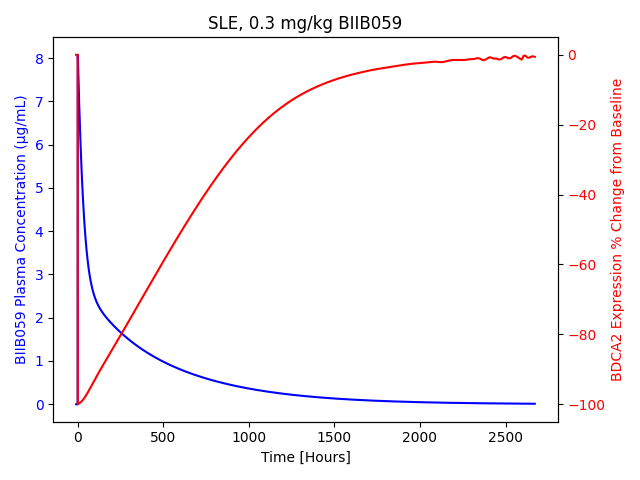
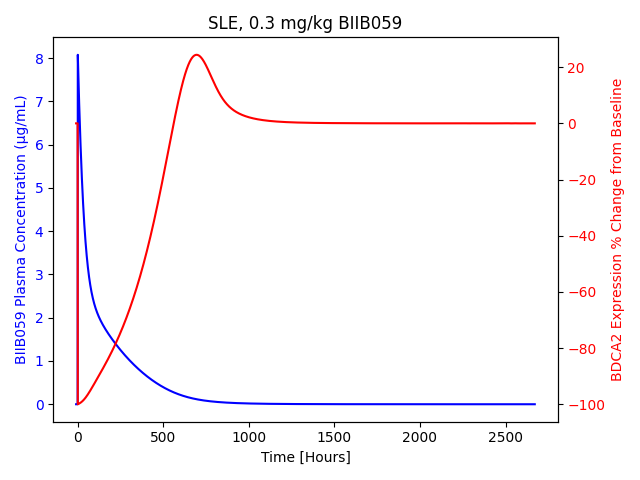
SLE modell som inte oscillerar!

diff --git a/Scripts/plot_SLE_PK_simulation.py b/Scripts/plot_SLE_PK_simulation.py
@@ -21,7 +21,7 @@ class NumpyArrayEncoder(JSONEncoder):
         return JSONEncoder.default(self, obj)
 
 # Open the mPBPK_model.txt file and read its contents
-with open("../Models/mPBPK_model.txt", "r") as f:
+with open("../Models/mPBPK_SLE_model.txt", "r") as f:
     lines = f.readlines()
 
 # Open the data file and read its contents
@@ -58,11 +58,11 @@ def plot_sim_with_PK_data(params, sims, PK_data, color='b', save_dir='../Results
 ## Setup of the model
 
 # Install the model
-sund.install_model('../Models/mPBPK_model.txt')
+sund.install_model('../Models/mPBPK_SLE_model.txt')
 print(sund.installed_models())
 
 # Load the model object
-first_model = sund.load_model("mPBPK_model")
+first_model = sund.load_model("mPBPK_SLE_model")
 
 # Creating activities for the different doses
 bodyweight = 70 # Bodyweight for subject in kg
@@ -100,7 +100,8 @@ first_model_sims = {
 
 time_vectors = {exp: np.arange(-10, PK_data[exp]["time"][-1] + 0.01, 1) for exp in PK_data}
 
-params_M1 = [0.679, 0.01, 2600, 1810, 6300, 4370, 2600, 10.29, 29.58, 80.96, 0.769, 0.95, 0.605, 0.2, 12.7, 1.39, 0.421, 1.31e-4, 1.04e-7, 8, 8, 0.525]
+params_M1 = [0.679, 0.01, 2600, 1810, 6300, 4370, 2600, 10.29, 29.58, 80.96, 0.769, 0.95, 0.605, 
+0.2, 10.43, 20.9, 0.281, 1.31e-4, 8, 0.525, 0.07]
 
 
 plot_sim_with_PK_data(params_M1, first_model_sims, PK_data)

diff --git a/Scripts/plot_SLE_PD_simulation.py b/Scripts/plot_SLE_PD_simulation.py
@@ -21,7 +21,7 @@ class NumpyArrayEncoder(JSONEncoder):
         return JSONEncoder.default(self, obj)
 
 # Open the mPBPK_model.txt file and read its contents
-with open("../Models/mPBPK_model.txt", "r") as f:
+with open("../Models/mPBPK_SLE_model.txt", "r") as f:
     lines = f.readlines()
 
 # Open the data file and read its contents
@@ -58,11 +58,11 @@ def plot_sim_with_PD_data(params, sims, PD_data, color='b', save_dir='../Results
 ## Setup of the model
 
 # Install the model
-sund.install_model('../Models/mPBPK_model.txt')
+sund.install_model('../Models/mPBPK_SLE_model.txt')
 print(sund.installed_models())
 
 # Load the model object
-first_model = sund.load_model("mPBPK_model")
+first_model = sund.load_model("mPBPK_SLE_model")
 
 # Creating activities for the different doses
 bodyweight = 70 # Bodyweight for subject in kg
@@ -96,7 +96,8 @@ first_model_sims = {
 
 time_vectors = {exp: np.arange(-10, PD_data[exp]["time"][-1] + 0.01, 1) for exp in PD_data}
 
-params_M1 = [0.679, 0.01, 2600, 1810, 6300, 4370, 2600, 10.29, 29.58, 80.96, 0.769, 0.95, 0.605, 0.2, 12.7, 1.39, 0.421, 1.31e-4, 1.04e-7, 8, 8, 0.525]
+params_M1 = [0.679, 0.01, 2600, 1810, 6300, 4370, 2600, 10.29, 29.58, 80.96, 0.769, 0.95, 0.605, 
+0.2, 10.43, 20900, 281, 1.31e-1, 8, 525, 0.07]
 
 
 plot_sim_with_PD_data(params_M1, first_model_sims, PD_data)

diff --git a/Scripts/optimize_SLE_PD.py b/Scripts/optimize_SLE_PD.py
@@ -55,7 +55,7 @@ first_model_sims = {
     'IVdose_20_SLE': sund.Simulation(models=first_model, activities=IV_20_SLE, time_unit='h'),
 }
 
-time_vectors = {exp: np.arange(-10, PD_data[exp]["time"][-1] + 8000, 1) for exp in PD_data}
+time_vectors = {exp: np.arange(-10, PD_data[exp]["time"][-1] + 4000, 1) for exp in PD_data}
 
 def plot_sim(params, sim, timepoints, color='b', feature_to_plot='PD_sim'):
     sim.simulate(time_vector=timepoints, parameter_values=params, reset=True)
@@ -86,7 +86,7 @@ def fcost(params, sims, PD_data):
     return cost
 
 params_M1 = [0.679, 0.01, 2600, 1810, 6300, 4370, 2600, 10.29, 29.58, 80.96, 0.769, 0.95, 0.605, 
-0.2, 8.69, 13.9, 0.421, 1.31e-1, 8, 0.525, 0.07]
+0.2, 10.43, 20.9, 0.281, 1.31e-4, 8, 0.525, 0.07]
 
 # Linear clearance have been updated for SLE, otherwise the same optimized parameters from HV is used
 
@@ -106,7 +106,7 @@ args_M1 = (first_model_sims, PD_data)
 params_M1_log = np.log(params_M1)
 
 # Bounds for the parameters
-bound_factors = [1, 1, 1, 1, 1, 1, 1, 1, 1, 1, 1, 1, 1, 1, 1.3, 1.3, 1.3, 1, 1, 1, 2] 
+bound_factors = [1, 1, 1, 1, 1, 1, 1, 1, 1, 1, 1, 1, 1, 1, 1, 1, 1, 1, 1, 1, 1] 
 # Frozen parameters except Vm and Km
 
 lower_bounds = np.log(params_M1) - np.log(bound_factors)

diff --git a/Scripts/optimize_PD_model.py b/Scripts/optimize_PD_model.py
@@ -105,8 +105,8 @@ def fcost(params, sims, PD_data):
             return 1e30
     return cost
 
-params_M1 = [0.679, 0.01, 2600, 1810, 6300, 4370, 2600, 10.29, 29.58, 80.96, 0.769, 0.95, 0.605, 0.2, 5.896, 
-10.7, 0.547, 5.46e-5, 2.5e-8, 4, 4, 0.35] # Optimized parameters for PK from PK_model, initial guess for PD
+params_M1 = [0.679, 0.01, 2600, 1810, 6300, 4370, 2600, 10.29, 29.58, 80.96, 0.77, 0.95, 0.605, 0.2, 
+5.45, 16.05, 0.365, 0.00003, 4.0, 0.1, 0.4, 0.001] # Optimized parameters for PK from PK_model, initial guess for PD
 
 cost_M1 = fcost(params_M1, first_model_sims, PD_data)
 print(f"Cost of the M1 model: {cost_M1}")
@@ -124,7 +124,7 @@ args_M1 = (first_model_sims, PD_data)
 params_M1_log = np.log(params_M1)
 
 # Bounds for the parameters
-bound_factors = [1, 1, 1, 1, 1, 1, 1, 1, 1, 1, 1, 1, 1, 1, 1, 1.3, 1.3, 2, 2, 2, 2, 1.5] # Frozen parameters for PK 
+bound_factors = [1, 1, 1, 1, 1, 1, 1, 1, 1, 1, 1, 1, 1, 1, 1, 1.3, 1.3, 2, 2, 2, 5, 5] # Frozen parameters for PK 
 
 lower_bounds = np.log(params_M1) - np.log(bound_factors)
 upper_bounds = np.log(params_M1) + np.log(bound_factors)

diff --git a/Scripts/optimize_PK_model.py b/Scripts/optimize_PK_model.py
@@ -115,7 +115,7 @@ def fcost(params, sims, PK_data):
     return cost
 
 params_M1 = [0.713, 0.00975, 2600, 1810, 6300, 4370, 2600, 10.29, 29.58, 80.96, 0.7, 0.95, 0.55, 
-0.20, 5.52, 10.7, 0.547, 1.31e-4, 2.5e-8, 4, 4, 0.35] # Initial guess for PK and PD parameters
+0.20, 5.52, 10.7, 0.547, 1.31e-4, 4, 0.35, 0.01, 0.001] # Initial guess for PK and PD parameters
 
 cost_M1 = fcost(params_M1, first_model_sims, PK_data)
 print(f"Cost of the M1 model: {cost_M1}")
@@ -138,7 +138,7 @@ args_M1 = (first_model_sims, PK_data)
 params_M1_log = np.log(params_M1)
 
 # Bounds for the parameters
-bound_factors = [1.05, 1.05, 1, 1, 1, 1, 1, 1, 1, 1, 1.1, 1, 1.1, 1, 2, 1.3, 1.3, 1, 1, 1, 1, 1] # PD parameters frozen
+bound_factors = [1.05, 1.05, 1, 1, 1, 1, 1, 1, 1, 1, 1.1, 1, 1.1, 1, 1.5, 1.5, 1.5, 1, 1, 1, 1, 1] # PD parameters frozen
 
 lower_bounds = np.log(params_M1) - np.log(bound_factors)
 upper_bounds = np.log(params_M1) + np.log(bound_factors)

diff --git a/Scripts/optimize_SLE_PK.py b/Scripts/optimize_SLE_PK.py
@@ -85,7 +85,7 @@ def fcost(params, sims, PK_data):
             return 1e30
     return cost
 
-params_M1 = [0.679, 0.01, 2600, 1810, 6300, 4370, 2600, 10.29, 29.58, 80.96, 0.769, 0.95, 0.605, 0.2, 8.69, 13.9, 0.421, 1.31e-4, 8, 0.525, 0.07]
+params_M1 = [0.679, 0.01, 2600, 1810, 6300, 4370, 2600, 10.29, 29.58, 80.96, 0.769, 0.95, 0.605, 0.2, 10.43, 20.9, 0.281, 1.31e-4, 8, 0.525, 0.07]
 # Linear clearance have been updated for SLE, otherwise the same optimized parameters from HV is used
 
 cost_M1 = fcost(params_M1, first_model_sims, PK_data)
@@ -104,7 +104,7 @@ args_M1 = (first_model_sims, PK_data)
 params_M1_log = np.log(params_M1)
 
 # Bounds for the parameters
-bound_factors = [1, 1, 1, 1, 1, 1, 1, 1, 1, 1, 1, 1, 1, 1, 1.5, 1.5, 1.5, 1, 1, 1, 10] 
+bound_factors = [1, 1, 1, 1, 1, 1, 1, 1, 1, 1, 1, 1, 1, 1, 1, 1, 1, 1, 1, 1, 1] 
 # Frozen parameters except linear clearance 
 
 lower_bounds = np.log(params_M1) - np.log(bound_factors)

diff --git a/Scripts/plot_SLE_PK_PD_together.py b/Scripts/plot_SLE_PK_PD_together.py
@@ -69,8 +69,8 @@ with open("../Data/PD_data.json", "r") as pd_file:
     PD_data = json.load(pd_file)
 
 # Load the model
-sund.install_model('../Models/mPBPK_model.txt')
-first_model = sund.load_model("mPBPK_model")
+sund.install_model('../Models/mPBPK_SLE_model.txt')
+first_model = sund.load_model("mPBPK_SLE_model")
 
 # Create activities for the different doses
 bodyweight = 70  # Bodyweight in kg
@@ -91,8 +91,8 @@ for experiment in PK_data:
 time_vectors = {exp: np.arange(-10, PK_data[exp]["time"][-1] + 2000, 1) for exp in PK_data}
 
 # Define parameters (example parameters, replace with actual values)
-params = [0.679, 0.01, 2600, 1810, 6300, 4370, 2600, 10.29, 29.58, 80.96, 0.769,
- 0.95, 0.605, 0.2, 12.7, 1.39, 0.421, 1.31e-4, 1.04e-7, 8, 8, 0.525]
+params = [0.679, 0.01, 2600, 1810, 6300, 4370, 2600, 10.29, 29.58, 80.96, 0.769, 0.95, 0.605, 
+0.2, 10.43, 20900, 281, 1.31e-1, 8, 525, 0.07]
 
 
 # Plot and save each experiment
